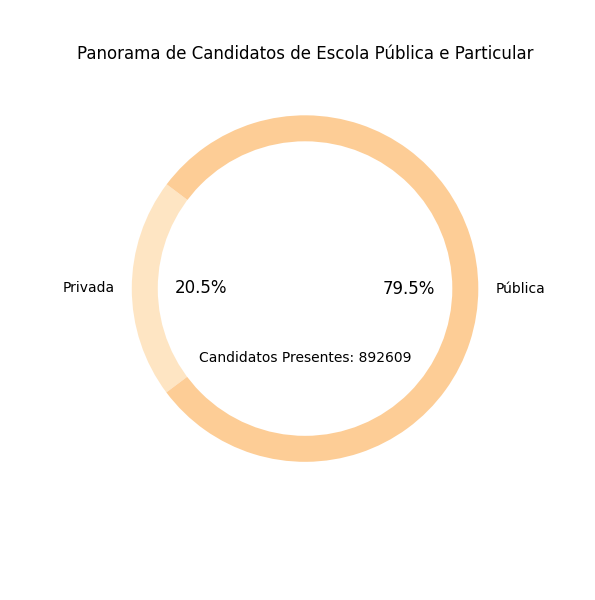
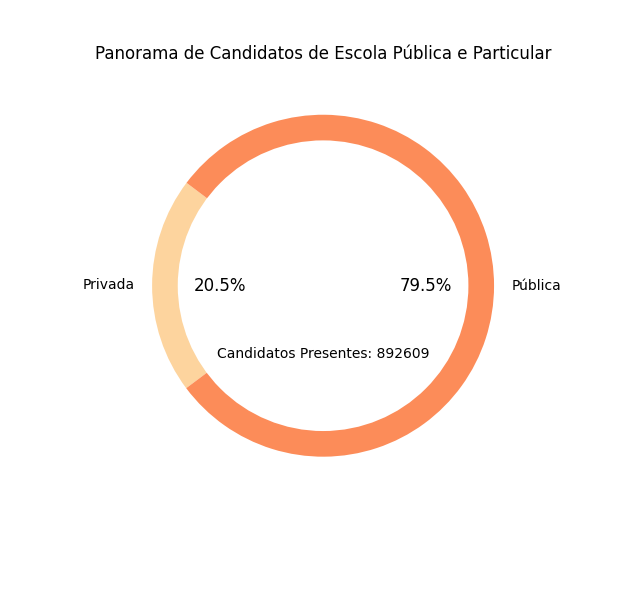
plotagem status_redacao - INCRÍVEL

Changed region(s): [[0.0908, 0.18, 0.9076, 0.78], [0.121, 0.06, 0.5143, 0.12], [0.5445, 0.06, 0.8773, 0.12]]

diff --git a/filtroDados/redacaoNota.py b/filtroDados/redacaoNota.py
@@ -1,4 +1,6 @@
 from utils import *
+import matplotlib.gridspec as gridspec
+
 
 
 # DF de presença
@@ -29,7 +31,6 @@ media_porCompetencia = df_Redacao[df_Redacao['ELIMINADOS_CONC'] == 'Presente']\
 print(media_porCompetencia)
 
 # panorama de status da redação 
-
 status_redacao = df_Redacao[df_Redacao['ELIMINADOS_CONC'] == 'Presente']\
                   .loc[df_Redacao['TP_ESCOLA'].isin([2,3])]\
                   .groupby(['TP_ESCOLA', 'TP_STATUS_REDACAO'])['TP_STATUS_REDACAO']\
@@ -84,53 +85,85 @@ PLOTAGEM
 
 
 
-""" STATUS REDAÇÃO ANULADAS / OK / QTDE """
-cores3 = sns.set_palette("OrRd")
-plt.figure(figsize=(12, 6))
-# Desenhar o gráfico de pizza com as quantidades
-wedges, texts, autotexts = plt.pie(status_redacao_total['Quantidade'], labels=status_redacao_total['TP_ESCOLA'],
-                                   autopct='%1.1f%%', startangle=143,colors=cores3)
-# Configurar as propriedades dos textos
-plt.setp(autotexts, size=12, color='black')
-# Limpar o círculo central
-centre_circle = plt.Circle((0, 0), 0.85, fc='white')
-fig = plt.gcf()
-fig.gca().add_artist(centre_circle)
-# Calcular e exibir a quantidade total
-total = status_redacao_total['Quantidade'].sum()
-plt.text(0, -0.4, 'Candidatos Presentes: {}'.format(total), ha='center', va='center', fontsize=10)
-plt.title('Panorama de Candidatos de Escola Pública e Particular', y = 1.01)
-plt.show()
+""" QUANTIDADE ALUNOS PUBLICA / PRIVADA """
 
-    
-# # Gráfico Lineplot
-# fig, (ax1, ax2) = plt.subplots(nrows=1, ncols=2, figsize=(12, 6))
+novas_cores = sns.color_palette("OrRd", n_colors=2)
 
-# sns.lineplot(data=df_publica, x='TP_STATUS_REDACAO', y='Quantidade', ax=ax1, label='Pública')
-# sns.lineplot(data=df_privada, x='TP_STATUS_REDACAO', y='Quantidade', ax=ax1, label='Privada')
-
-# ax1.set_xlabel('Status da Redação')
-# ax1.set_ylabel('Quantidade')
-# ax1.set_title('Distribuição por Status da Redação')
-# ax1.legend()
-
-# # Gráfico de Pizza
-# contagem_sem_problemas_publica = df_publica[df_publica['TP_STATUS_REDACAO'] == 'Sem Problemas']['Quantidade'].iloc[0]
-# contagem_sem_problemas_privada = df_privada[df_privada['TP_STATUS_REDACAO'] == 'Sem Problemas']['Quantidade'].iloc[0]
-
-# contagem_sem_problemas = [contagem_sem_problemas_publica, contagem_sem_problemas_privada]
-# labels = ['Pública', 'Privada']
-
-# ax2.pie(contagem_sem_problemas, labels=labels, autopct='%1.1f%%', startangle=90)
-# ax2.set_title('Quantidade de "Sem Problemas"')
-
-# # Ajustar o layout
-# plt.tight_layout()
-
-# # Exibir a plotagem
+# plt.figure(figsize=(12, 6))
+# # Desenhar o gráfico de pizza com as quantidades
+# wedges, texts, autotexts = plt.pie(status_redacao_total['Quantidade'], labels=status_redacao_total['TP_ESCOLA'],
+#                                    autopct='%1.1f%%', startangle=143,colors=novas_cores)
+# # Configurar as propriedades dos textos
+# plt.setp(autotexts, size=12, color='black')
+# # Limpar o círculo central
+# centre_circle = plt.Circle((0, 0), 0.85, fc='white')
+# fig = plt.gcf()
+# fig.gca().add_artist(centre_circle)
+# # Calcular e exibir a quantidade total
+# total = status_redacao_total['Quantidade'].sum()
+# plt.text(0, -0.4, 'Candidatos Presentes: {}'.format(total), ha='center', va='center', fontsize=10)
+# plt.title('Panorama de Candidatos de Escola Pública e Particular', y = 1.01)
 # plt.show()
 
+    
+""" AXIS 1 E 2 - STATUS REDAÇÃO / PUBLICA E PRIVADA """
 
+# print(status_redacao_anuladas)
+# print(status_redacao_OK)
+
+# Criar a figura e a grade de subplots
+fig = plt.figure(figsize=(12, 6))
+gs = gridspec.GridSpec(1, 2, width_ratios=[3, 1])
+
+# Primeiro subplot: Gráfico de Linhas
+ax1 = plt.subplot(gs[0])
+sns.lineplot(data=status_redacao_anuladas, 
+             x='TP_STATUS_REDACAO', y='Quantidade', hue='TP_ESCOLA', style='TP_ESCOLA',
+               markers=['o', 's'], ax=ax1, palette ='OrRd')
+ax1.set_title('Redações Zeradas')
+ax1.set_xlabel('Motivo da anulação')
+ax1.set_ylabel('Quantidade')
+ax1.legend(title='Tipo de Escola')
+
+ax1.spines['left'].set_visible(False)
+ax1.spines['right'].set_visible(False)
+ax1.spines['top'].set_visible(False)
+# TICSKs
+ax1.tick_params(axis='y', colors='grey')
+ax1.tick_params(axis='x', colors='grey', rotation = 20)
+# Grid
+ax1.yaxis.grid(True, color = 'lightgrey', alpha=0.5)
+# Valores nos vértices
+for line in ax1.lines:
+    x_values = line.get_xdata()
+    y_values = line.get_ydata()
+    line_color = line.get_color()
+    for x, y in zip(x_values, y_values):
+        ax1.annotate(str(y), xy=(x, y), xytext=(4, 6), textcoords='offset points', color=line_color)
+
+# Segundo subplot: Gráfico de Pizza
+ax2 = plt.subplot(gs[1])
+wedges, texts = ax2.pie(status_redacao_OK['Quantidade'], startangle=143, colors=novas_cores, wedgeprops=dict(width=0.2))
+ax2.set_title('Redações Válidas')
+
+# Exibir as quantidades como números nas fatias
+total = sum(status_redacao_OK['Quantidade'])
+percentages = status_redacao_OK['Quantidade'] / total * 100
+
+for wedge, text, percentage in zip(wedges, texts, percentages):
+    wedge.set_edgecolor('white')  # Adiciona borda branca nas fatias
+    text.set_text(f'{percentage:.1f}%')  # Exibe a porcentagem como texto
+
+# Exibir o valor total no centro
+ax2.text(0, 0, format(total), ha='center', va='center', fontsize=12, color='grey')
+
+fig.suptitle('Status das redações (Candidatos de escolas Públicas/Privadas)', fontweight = 'bold')
+
+# Ajustar o layout
+plt.tight_layout()
+
+# Exibir o gráfico
+plt.show()
 
 
 # # Transformar as colunas em linhas utilizando o melt
